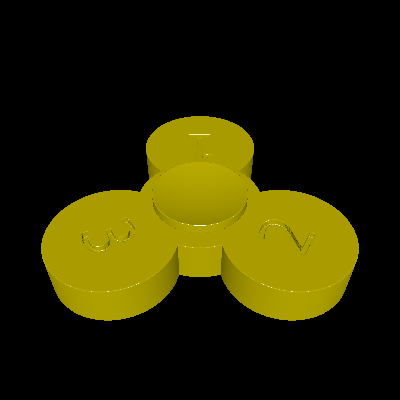
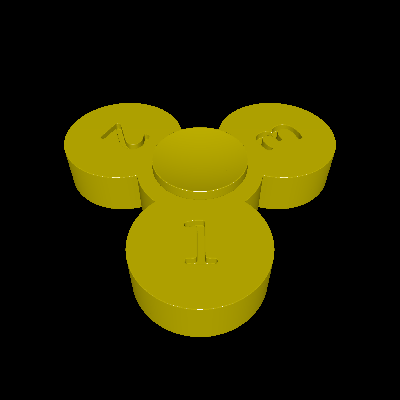
fidget_spinner: cleanup code & add README

Changed region(s): [[0.09, 0.24, 0.9, 0.84], [0.57, 0.45, 0.6, 0.48]]

diff --git a/examples/usable/fidget_spinner/main.go b/examples/usable/fidget_spinner/main.go
@@ -2,159 +2,143 @@ package main
 
 import (
 	"fmt"
-	"image"
 	_ "image/jpeg"
-	"io/ioutil"
 	"log"
 	"math"
-	"os"
 
+	"github.com/unixpickle/model3d/model2d"
 	"github.com/unixpickle/model3d/render3d"
 
-	"github.com/unixpickle/essentials"
 	"github.com/unixpickle/model3d"
 )
 
 const (
-	AxleRadius  = 0.15
 	Thickness   = 0.15
 	PartSpacing = 0.01
 	EtchInset   = 0.05
+
+	AxleRadius   = 0.15
+	HolderRadius = 0.3
+	OrbitRadius  = 0.6
+	CircleRadius = 0.4
+	EtchRadius   = 0.4
 )
 
 func main() {
-	images := [3]image.Image{}
-	for i := range images {
-		f, err := os.Open(fmt.Sprintf("side_%d.png", i+1))
-		essentials.Must(err)
-		images[i], _, err = image.Decode(f)
-		f.Close()
-		essentials.Must(err)
-	}
-
-	axle := &model3d.SubtractedSolid{
-		Positive: model3d.JoinedSolid{
-			&model3d.Cylinder{
-				P1:     model3d.Coord3D{Z: -Thickness},
-				P2:     model3d.Coord3D{Z: Thickness},
-				Radius: AxleRadius,
-			},
-			&model3d.Cylinder{
-				P1:     model3d.Coord3D{Z: -Thickness},
-				P2:     model3d.Coord3D{Z: -Thickness * 1.5},
-				Radius: 0.3,
-			},
-			&model3d.Cylinder{
-				P1:     model3d.Coord3D{Z: Thickness},
-				P2:     model3d.Coord3D{Z: Thickness * 1.5},
-				Radius: 0.3,
-			},
-		},
-		Negative: model3d.JoinedSolid{
-			&model3d.Sphere{
-				Center: model3d.Coord3D{Z: -Thickness*1.5 - 1.0},
-				Radius: 1.05,
-			},
-			&model3d.Sphere{
-				Center: model3d.Coord3D{Z: Thickness*1.5 + 1.0},
-				Radius: 1.05,
-			},
-		},
-	}
-
-	mesh := model3d.MarchingCubesSearch(axle, 0.003, 8)
-
-	body := &model3d.SubtractedSolid{
-		Positive: model3d.JoinedSolid{
-			&model3d.Cylinder{
-				P1:     model3d.Coord3D{Z: -Thickness + PartSpacing},
-				P2:     model3d.Coord3D{Z: Thickness - PartSpacing},
-				Radius: 0.4,
-			},
-			&model3d.Cylinder{
-				P1:     model3d.Coord3D{Y: -0.6, Z: -Thickness + PartSpacing},
-				P2:     model3d.Coord3D{Y: -0.6, Z: Thickness - PartSpacing},
-				Radius: 0.4,
-			},
-			&model3d.Cylinder{
-				P1: model3d.Coord3D{
-					X: -0.6 * math.Sin(math.Pi*2/3),
-					Y: -0.6 * math.Cos(math.Pi*2/3),
-					Z: -Thickness + PartSpacing,
-				},
-				P2: model3d.Coord3D{
-					X: -0.6 * math.Sin(math.Pi*2/3),
-					Y: -0.6 * math.Cos(math.Pi*2/3),
-					Z: Thickness - PartSpacing,
-				},
-				Radius: 0.4,
-			},
-			&model3d.Cylinder{
-				P1: model3d.Coord3D{
-					X: -0.6 * math.Sin(math.Pi*4/3),
-					Y: -0.6 * math.Cos(math.Pi*4/3),
-					Z: -Thickness + PartSpacing,
-				},
-				P2: model3d.Coord3D{
-					X: -0.6 * math.Sin(math.Pi*4/3),
-					Y: -0.6 * math.Cos(math.Pi*4/3),
-					Z: Thickness - PartSpacing,
-				},
-				Radius: 0.4,
-			},
-		},
-		Negative: model3d.JoinedSolid{
-			&model3d.Cylinder{
-				P1:     model3d.Coord3D{Z: -Thickness + PartSpacing},
-				P2:     model3d.Coord3D{Z: Thickness - PartSpacing},
-				Radius: AxleRadius + PartSpacing,
-			},
-			&EtchedImage{
-				Image:  images[0],
-				X:      0,
-				Y:      -0.6,
-				Radius: 0.4,
-			},
-			&EtchedImage{
-				Image:  images[1],
-				X:      -0.6 * math.Sin(math.Pi*2/3),
-				Y:      -0.6 * math.Cos(math.Pi*2/3),
-				Radius: 0.4,
-			},
-			&EtchedImage{
-				Image:  images[2],
-				X:      -0.6 * math.Sin(math.Pi*4/3),
-				Y:      -0.6 * math.Cos(math.Pi*4/3),
-				Radius: 0.4,
-			},
-		},
-	}
-	mesh.AddMesh(model3d.MarchingCubesSearch(body, 0.003, 8))
+	log.Println("Creating axle mesh...")
+	mesh := model3d.MarchingCubesSearch(CreateAxle(), 0.003, 8)
+	log.Println("Creating body mesh...")
+	mesh.AddMesh(model3d.MarchingCubesSearch(CreateBody(), 0.003, 8))
+	log.Println("Post-processing mesh...")
 	mesh = mesh.SmoothAreas(0.05, 10)
+	mesh = mesh.EliminateCoplanar(1e-8)
 
-	ioutil.WriteFile("spinner.stl", mesh.EncodeSTL(), 0755)
+	log.Println("Saving mesh...")
+	mesh.SaveGroupedSTL("spinner.stl")
 
 	log.Println("Saving rendering of mesh...")
 	render3d.SaveRendering("rendering.png", mesh, model3d.Coord3D{Y: 2, Z: 2}, 400, 400, nil)
 }
 
+func CreateAxle() model3d.Solid {
+	return &model3d.SubtractedSolid{
+		Positive: model3d.JoinedSolid{
+			&model3d.Cylinder{
+				P1:     model3d.Coord3D{Z: -(Thickness + PartSpacing)},
+				P2:     model3d.Coord3D{Z: Thickness + PartSpacing},
+				Radius: AxleRadius - PartSpacing,
+			},
+			&model3d.Cylinder{
+				P1:     model3d.Coord3D{Z: -(Thickness + PartSpacing)},
+				P2:     model3d.Coord3D{Z: -(Thickness + PartSpacing) * 1.5},
+				Radius: HolderRadius,
+			},
+			&model3d.Cylinder{
+				P1:     model3d.Coord3D{Z: (Thickness + PartSpacing)},
+				P2:     model3d.Coord3D{Z: (Thickness + PartSpacing) * 1.5},
+				Radius: HolderRadius,
+			},
+		},
+		Negative: model3d.JoinedSolid{
+			&model3d.Sphere{
+				Center: model3d.Coord3D{Z: -(Thickness+PartSpacing)*1.5 - 1.0},
+				Radius: 1.05,
+			},
+			&model3d.Sphere{
+				Center: model3d.Coord3D{Z: (Thickness+PartSpacing)*1.5 + 1.0},
+				Radius: 1.05,
+			},
+		},
+	}
+}
+
+func CreateBody() model3d.Solid {
+	var circles model3d.JoinedSolid
+	for i, theta := range []float64{0, math.Pi * 2 / 3, math.Pi * 4 / 3} {
+		etching := NewEtchedImage(fmt.Sprintf("side_%d.png", i+1), theta)
+		circles = append(circles, &model3d.SubtractedSolid{
+			Positive: &model3d.Cylinder{
+				P1: model3d.Coord3D{
+					X: etching.X,
+					Y: etching.Y,
+					Z: -Thickness,
+				},
+				P2: model3d.Coord3D{
+					X: etching.X,
+					Y: etching.Y,
+					Z: Thickness,
+				},
+				Radius: CircleRadius,
+			},
+			Negative: etching,
+		})
+	}
+	return &model3d.SubtractedSolid{
+		// Add a middle circle to hold things together.
+		Positive: append(circles, &model3d.Cylinder{
+			P1:     model3d.Coord3D{Z: -Thickness},
+			P2:     model3d.Coord3D{Z: Thickness},
+			Radius: CircleRadius,
+		}),
+		// Hole for axle.
+		Negative: &model3d.Cylinder{
+			P1:     model3d.Coord3D{Z: -(Thickness + 1e-5)},
+			P2:     model3d.Coord3D{Z: Thickness + 1e-5},
+			Radius: AxleRadius,
+		},
+	}
+}
+
 type EtchedImage struct {
-	Image  image.Image
+	Solid  model2d.Solid
 	X      float64
 	Y      float64
 	Radius float64
 }
 
+func NewEtchedImage(path string, theta float64) *EtchedImage {
+	bmp := model2d.MustReadBitmap(path, nil)
+	mesh := bmp.Mesh().Smooth(10)
+	collider := model2d.MeshToCollider(mesh)
+	solid := model2d.NewColliderSolid(collider)
+	return &EtchedImage{
+		Solid:  model2d.ScaleSolid(solid, 1/float64(bmp.Width)),
+		X:      OrbitRadius * math.Sin(theta),
+		Y:      OrbitRadius * math.Cos(theta),
+		Radius: CircleRadius,
+	}
+}
+
 func (e *EtchedImage) Min() model3d.Coord3D {
-	return model3d.Coord3D{X: e.X - e.Radius, Y: e.Y - e.Radius, Z: -Thickness}
+	return model3d.Coord3D{X: e.X - e.Radius, Y: e.Y - e.Radius, Z: -(Thickness + 1e-5)}
 }
 
 func (e *EtchedImage) Max() model3d.Coord3D {
-	return model3d.Coord3D{X: e.X + e.Radius, Y: e.Y + e.Radius, Z: Thickness}
+	return model3d.Coord3D{X: e.X + e.Radius, Y: e.Y + e.Radius, Z: Thickness + 1e-5}
 }
 
 func (e *EtchedImage) Contains(c model3d.Coord3D) bool {
-	if c.X < e.X-e.Radius || c.Y < e.Y-e.Radius || c.X > e.X+e.Radius || c.Y > e.Y+e.Radius {
+	if !model3d.InBounds(e, c) {
 		return false
 	}
 	if math.Abs(c.Z) > Thickness || math.Abs(c.Z) < Thickness-EtchInset {
@@ -164,29 +148,16 @@ func (e *EtchedImage) Contains(c model3d.Coord3D) bool {
 	axis1 := model3d.Coord2D{X: e.X, Y: e.Y}
 	axis1 = axis1.Scale(1 / (axis1.Norm() * e.Radius))
 	axis2 := model3d.Coord2D{X: -axis1.Y, Y: axis1.X}
+
 	if c.Z < 0 {
+		// Flip image on under-side of spinner.
 		axis2 = axis2.Scale(-1)
 	}
+
 	p := model3d.Coord2D{X: c.X - e.X, Y: c.Y - e.Y}
 
-	x := int(math.Round(float64(e.Image.Bounds().Dx()) * (axis2.Dot(p) + 1) / 2))
-	y := int(math.Round(float64(e.Image.Bounds().Dy()) * (axis1.Dot(p) + 1) / 2))
+	x := (axis2.Dot(p) + 1) / 2
+	y := (axis1.Dot(p) + 1) / 2
 
-	if x < 0 {
-		return false
-	} else if x >= e.Image.Bounds().Dx() {
-		return false
-	}
-
-	if y < 0 {
-		return false
-	} else if y >= e.Image.Bounds().Dy() {
-		return false
-	}
-
-	r, _, _, _ := e.Image.At(x, y).RGBA()
-	if r > 0xffff/2 {
-		return false
-	}
-	return math.Abs(c.Z) > Thickness-EtchInset
+	return e.Solid.Contains(model2d.Coord{X: x, Y: y})
 }

diff --git a/examples/usable/fidget_spinner/README.md b/examples/usable/fidget_spinner/README.md
@@ -1,0 +1,9 @@
+# fidget-spinner
+
+This is a fidget spinner as a single interlocking part. It is intended to be printed using SLS or some other support-free method.
+
+The `PartSpacing` constant can be modified to give the axle more clearance. The default setting (0.01 inches) may be too agressive for most printers.
+
+# Rendering
+
+![Rendering of the model](rendering.png)
